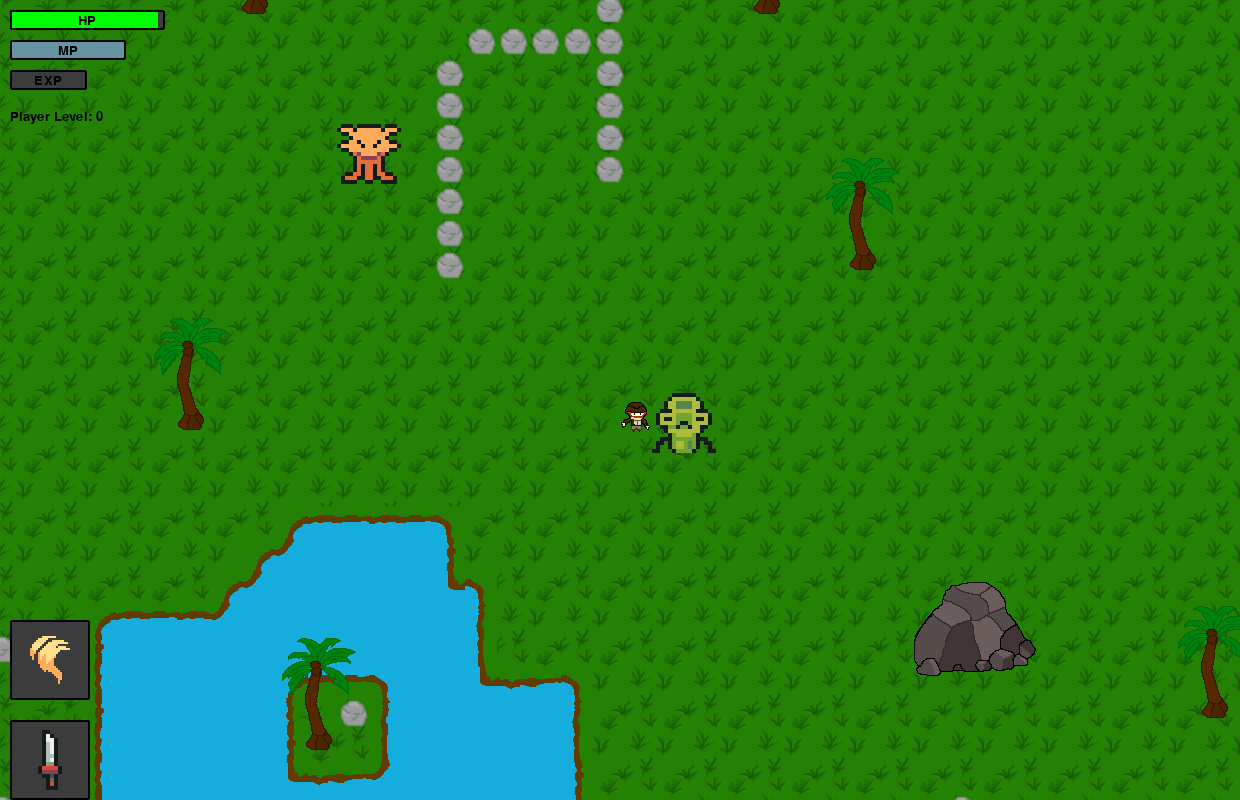
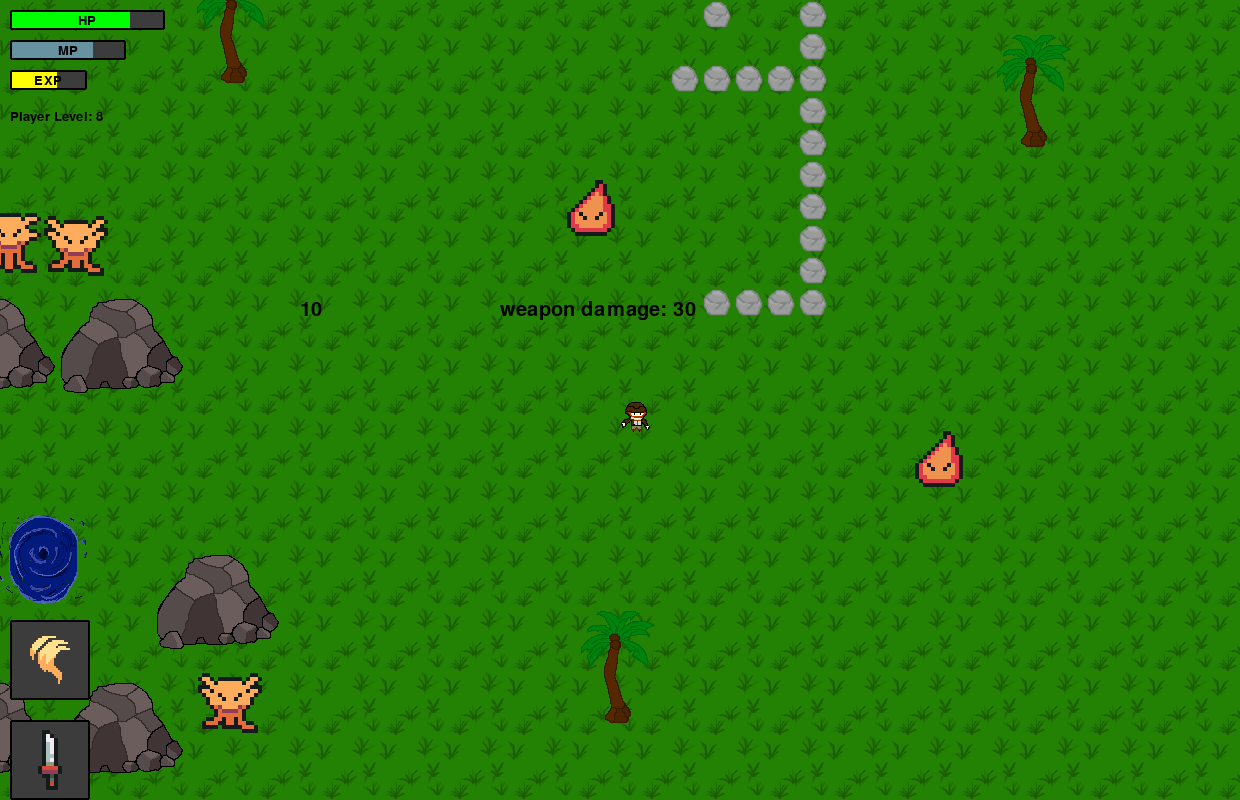
Settings now works properly. Everything is being updated and applied correctly.

diff --git a/src/Settings.py b/src/Settings.py
@@ -480,6 +480,24 @@ class Settings:
             item=Item(left,top,self.val_changer_width,self.val_changer_height,index,UI_TEXT_FONT,extra_attr)
             self.items.append(item)
         pass
+    
+    def apply_changes(self,game):
+        for index,item in enumerate(self.items):
+            if index<5:
+                item.apply_changes(self.selected_attr_index,self.attribute_names[index],game,COST_TO_UPGRADE_SPEEDS[self.attribute_names[index]][0],COST_TO_UPGRADE_SPEEDS[self.attribute_names[index]][1])
+            elif index<7:
+                weaponName=game.player.weapon_name
+                weapon=game.GameSettings.WEAPON_INFO[weaponName]
+                extra_attr_name=['cooldown','damage']
+                item.apply_changes(self.selected_attr_index,weaponName,game,weapon['min_val'][index-5],weapon['max_val'][index-5],extra_attr_name[index-5])
+                pass
+            elif index<10:
+                magicName=game.player.magic_name
+                magic=game.GameSettings.MAGIC_INFO[magicName]
+                extra_attr_name=['cooldown','strength','cost']
+                item.apply_changes(self.selected_attr_index,magicName,game,magic['min_val'][index-7],magic['max_val'][index-7],extra_attr_name[index-7])
+                pass
+        pass
 
 class Item:
     def __init__(self,left,top,width,height,index,font,extra_attr_name=None):
@@ -489,15 +507,44 @@ class Item:
         self.extra_attr_name=extra_attr_name
 
         self.top=self.rect.midtop+pygame.math.Vector2(0,35)
-        self.bottom=self.rect.midbottom-pygame.math.Vector2(0,40)
+        self.bottom=self.rect.midbottom-pygame.math.Vector2(0,55)
         if(extra_attr_name!=None):
             self.top=self.top + pygame.math.Vector2(0,20)
 
-        self.curr_rect=None
+        self.curr_rect=pygame.rect.Rect(self.top[0]-10,self.top[1],20,5)
         self.curr_from_bottom_pos=None
         self.has_been_selected=False
         self.cost_for_upgrading=None
         self.mouse_collider_rect=pygame.rect.Rect(self.rect.centerx-10,self.top[1],20,self.bottom[1]-self.top[1])
+
+    def apply_changes(self,selected_index,attr_name,game,min_val,max_val,extra_attr_name=None):
+        if selected_index==self.index:
+            #Find the curr_val value.
+            if(self.has_been_selected and game.player.exp >= self.cost_for_upgrading):
+                game.player.exp -= self.cost_for_upgrading
+                self.cost_for_upgrading=0
+                self.has_been_selected=False
+                #Based on mouse pos, get the curr_val.
+                #self.curr_from_bottom_pos is the selected position to change the value to.
+                height_of_line=self.bottom[1]-self.top[1]
+                distance_from_bottom=self.bottom[1]-self.curr_from_bottom_pos
+                curr_new_val=min_val+ (((max_val-min_val)*distance_from_bottom)//height_of_line)
+                pass
+            else:
+                return
+            
+            if self.index<5:
+                # curr_val=0
+                setattr(game.GameSettings,attr_name,curr_new_val)
+                pass
+            elif self.index<7:
+                # curr_val=0
+                game.GameSettings.WEAPON_INFO[attr_name][extra_attr_name]=curr_new_val
+                pass
+            elif self.index<10:
+                # curr_val=0
+                game.GameSettings.MAGIC_INFO[attr_name][extra_attr_name]=curr_new_val
+                pass
 
     def select_the_upgraded_val(self,is_selected,curr_val,min_val,max_val,cost_of_one_unit):
         if(is_selected):
@@ -509,15 +556,12 @@ class Item:
 
                 height_of_line=self.bottom[1]-self.top[1]
                 curr_val_height_from_bottom=((curr_val-min_val)*height_of_line)//(max_val-min_val)
-                # print('new pos: from_bottom_pos: ', self.curr_from_bottom_pos)
-                # print('curr_val height from bottom', curr_val_height_from_bottom)
-                num_of_units=(abs(self.curr_from_bottom_pos-curr_val_height_from_bottom-self.bottom[1]))//(max_val-min_val)
-                # num_of_units=(abs(self.curr_from_bottom_pos-curr_val_height_from_bottom)*height_of_line)//(max_val-min_val)
-                self.cost_for_upgrading=(num_of_units)*cost_of_one_unit
+                curr_pos=self.bottom[1]-curr_val_height_from_bottom
+                self.cost_for_upgrading=(abs(curr_pos-mouse_pos[1])*(cost_of_one_unit*(max_val-min_val)))//(height_of_line)
             pass
         pass
 
-    def display_name(self,surface,name,cost,is_selected):
+    def display_name(self,surface,name,cost,curr_val,is_selected):
         txt_color=TEXT_COLOR_SELECTED if is_selected else TEXT_COLOR
         #Displaying attribute name
         text_surf=self.font.render(str(name).capitalize(),True,txt_color)
@@ -528,6 +572,11 @@ class Item:
         if(self.index>4):
             extra_text_surf=self.font.render(str(self.extra_attr_name),True,txt_color)
             surface.blit(extra_text_surf,(text_rect.centerx-extra_text_surf.get_width()//2, text_rect.bottom + 10))
+
+        #Displaying the current value.
+        curr_val_surf=self.font.render(f'Current val: {curr_val}',False,txt_color)
+        surface.blit(curr_val_surf,(self.rect.centerx-curr_val_surf.get_width()//2,self.rect.bottom-2*curr_val_surf.get_height()-20))
+
 
         #Displaying the cost.
         cost_surf=self.font.render(f'upgrade cost: {cost}', False, txt_color)
@@ -573,6 +622,6 @@ class Item:
         if(self.has_been_selected):
             cost_to_upgrade=self.cost_for_upgrading
             pass
-        self.display_name(display_surf,attr_name,cost_to_upgrade,is_selected)
+        self.display_name(display_surf,attr_name,cost_to_upgrade,curr_val,is_selected)
         self.display_bar(display_surf,curr_val,min_val,max_val,is_selected)
         pass

diff --git a/src/main.py b/src/main.py
@@ -49,11 +49,12 @@ class MyGame:
         # for button in self.PauseButtons:                #This is because we don't want the animation on pausing the game.
         #     button.animation_phase=None
             #Settings Screen -
-        self.settingsResume=Button((120,100),200,60,"Resume",self.gui_font,-100)
-        self.settingsBackToHome=Button((480,100),200,60,"Back To Home",self.gui_font,-100)
-        self.settingsResetSettings=Button((820,100),200,60,"Reset Settings", self.gui_font,-100)
+        self.settingsResume=Button((80,100),200,60,"Resume",self.gui_font,-100)
+        self.settingsBackToHome=Button((300,100),200,60,"Back To Home",self.gui_font,-200)
+        self.settingsResetSettings=Button((520,100),200,60,"Reset Settings", self.gui_font,-300)
+        self.settingsApplyChanges=Button((740,100),200,60,"Apply Changes",self.gui_font,-400)
         # self.settingsChangeSpeeds=
-        self.SettingsButtons=[self.settingsResume,self.settingsBackToHome,self.settingsResetSettings]
+        self.SettingsButtons=[self.settingsResume,self.settingsBackToHome,self.settingsResetSettings,self.settingsApplyChanges]
             #Victory Screen -
         self.VictoryButtons=[]
             #Loss Screen -
@@ -131,7 +132,13 @@ class MyGame:
                             if(self.curr_Game==None and button.text=="Resume"):
                                 return "NOT_POSSIBLE"
                             else:
-                                return button.text
+                                if(button.text=="Apply Changes"):
+                                    # print('apply changes')
+                                    if(self.curr_Game!=None):
+                                        self.curr_Game.GameSettings.apply_changes(self.curr_Game)
+                                    pass
+                                else:
+                                    return button.text
             if(running==False):
                 return ""
 

diff --git a/src/Player.py b/src/Player.py
@@ -59,7 +59,7 @@ class Player(pygame.sprite.Sprite):
         self.stats={'health':500,'energy':100,'attack':10,'magic':4,'speed':self.GameSettings.PLAYER_SPEED}        #These are the default or caps on player stats.
         self.health=self.stats['health']
         self.energy=self.stats['energy']
-        self.exp=1
+        self.exp=90
         self.exp_cap=100                        #This will be updated to a new cap whenever the self.exp >= self.exp_cap.
         self.speed=self.stats['speed']
         self.player_level=0
@@ -340,6 +340,7 @@ class Player(pygame.sprite.Sprite):
     #A method to recover some of the energy.
     def recover_energy(self):
         self.energy=self.stats['energy'] if (self.energy>=self.stats['energy']) else (self.energy+0.01*self.stats['magic'])
+        self.exp+=5
 
     def move(self,keys,level):
         #Gettings the controls

diff --git a/src/Level.py b/src/Level.py
@@ -403,6 +403,9 @@ class Level:
 
         #Displaying the magic selection.
         self.display_selection(display_surf,10,SCREEN_HEIGHT-2*ITEM_BOX_SIZE - 20, not self.player.can_switch_magic, self.curr_selected_magic)
+
+        debug_print(self.GameSettings.PLAYER_SPEED,(300,300))
+        debug_print(f'weapon damage: {self.GameSettings.WEAPON_INFO[self.player.weapon_name]["damage"]}',(500,300))
         # debug_print(self.enemy_counter,(600,500))
         # self.GameSettings.display_settings(can_change_values=1)
         #Blitting the detection tiles.

diff --git a/src/Enemy.py b/src/Enemy.py
@@ -178,6 +178,7 @@ class Enemy(pygame.sprite.Sprite):
             self.img.set_alpha(255)
 
     def update(self,display_surf,offset,level):
+        self.speed=level.GameSettings.ENEMY_SPEED
 
         #Moving the enemy sprite if player within notice range.
         if(pygame.math.Vector2(level.player.rect.left-self.rect.left, level.player.rect.top-self.rect.top).magnitude()<=self.notice_radius):

diff --git a/src/Game.py b/src/Game.py
@@ -60,6 +60,10 @@ class Game:
                 SaveGameScreen()
                 return "Pause"
             
+
+            #Setting the player's speed to the given speed.
+            self.player.speed=self.GameSettings.PLAYER_SPEED
+            
             #Running the Level logic.
             ret_val=self.curr_level.run(keys)
             pygame.display.flip()
